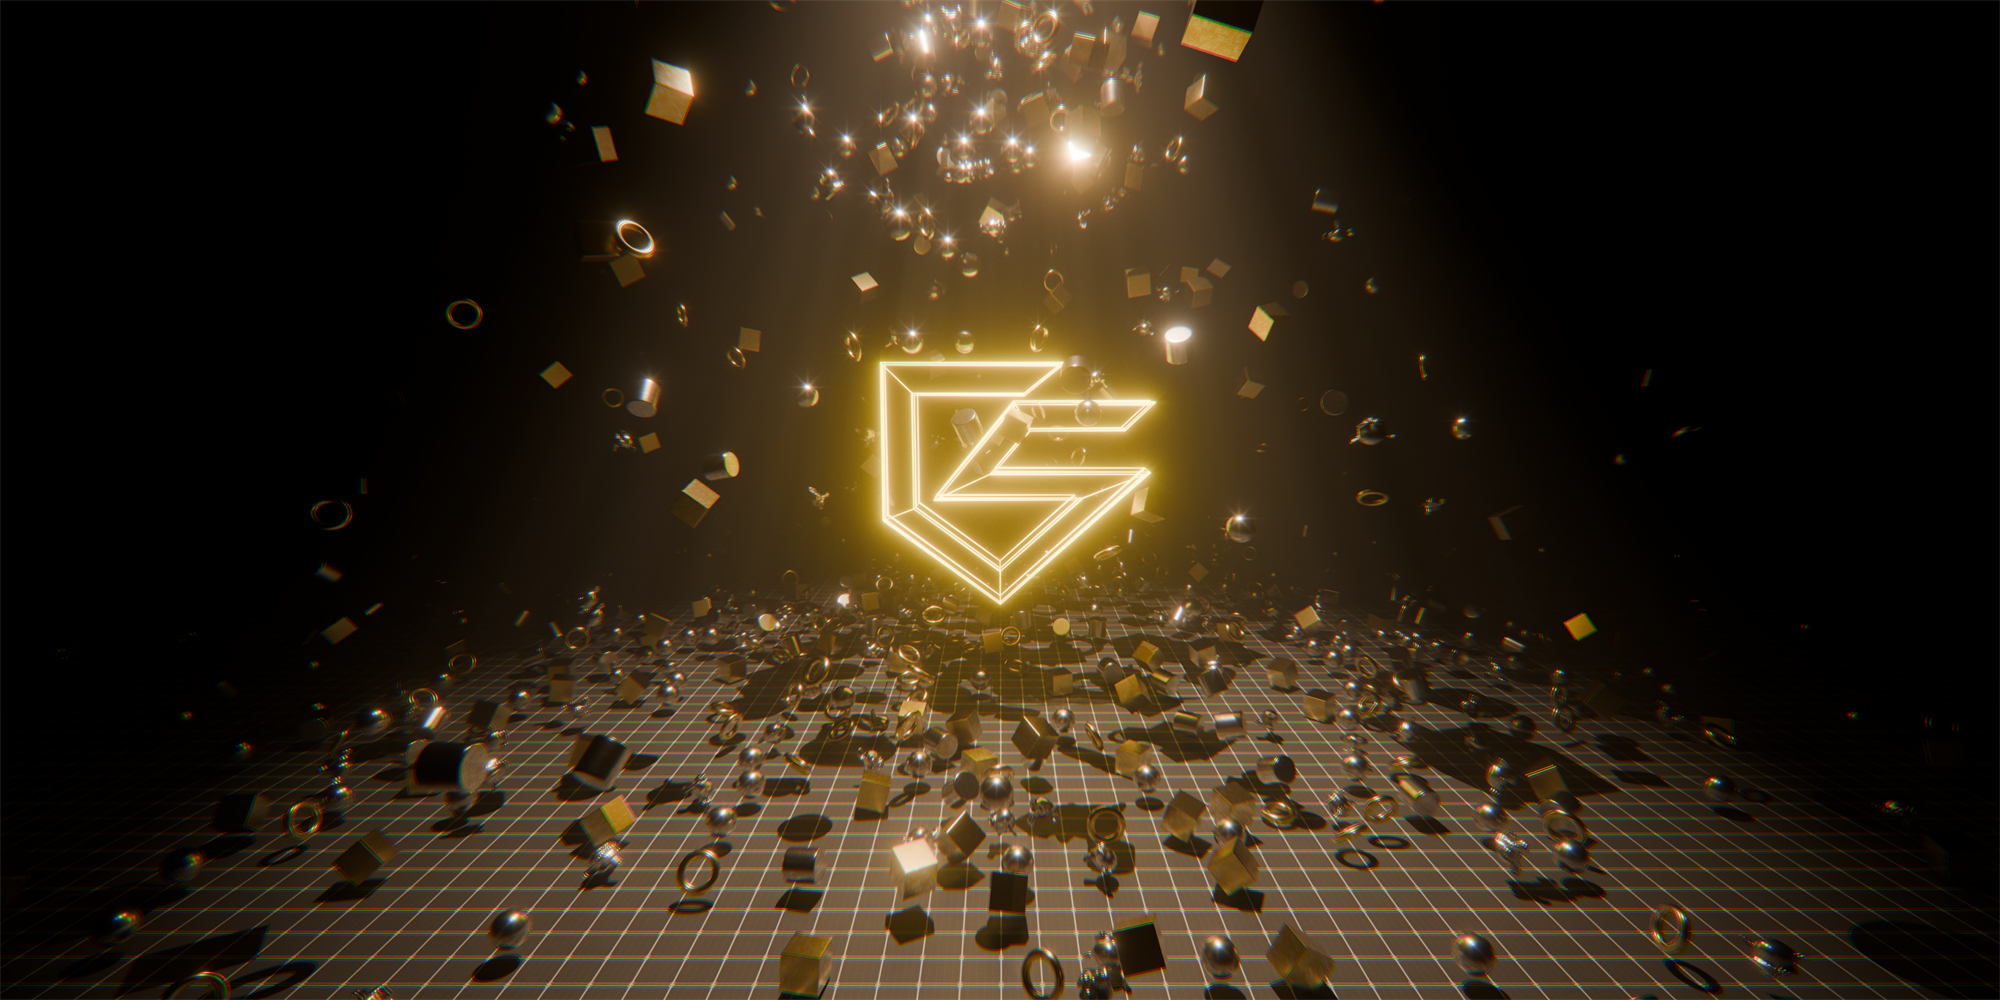
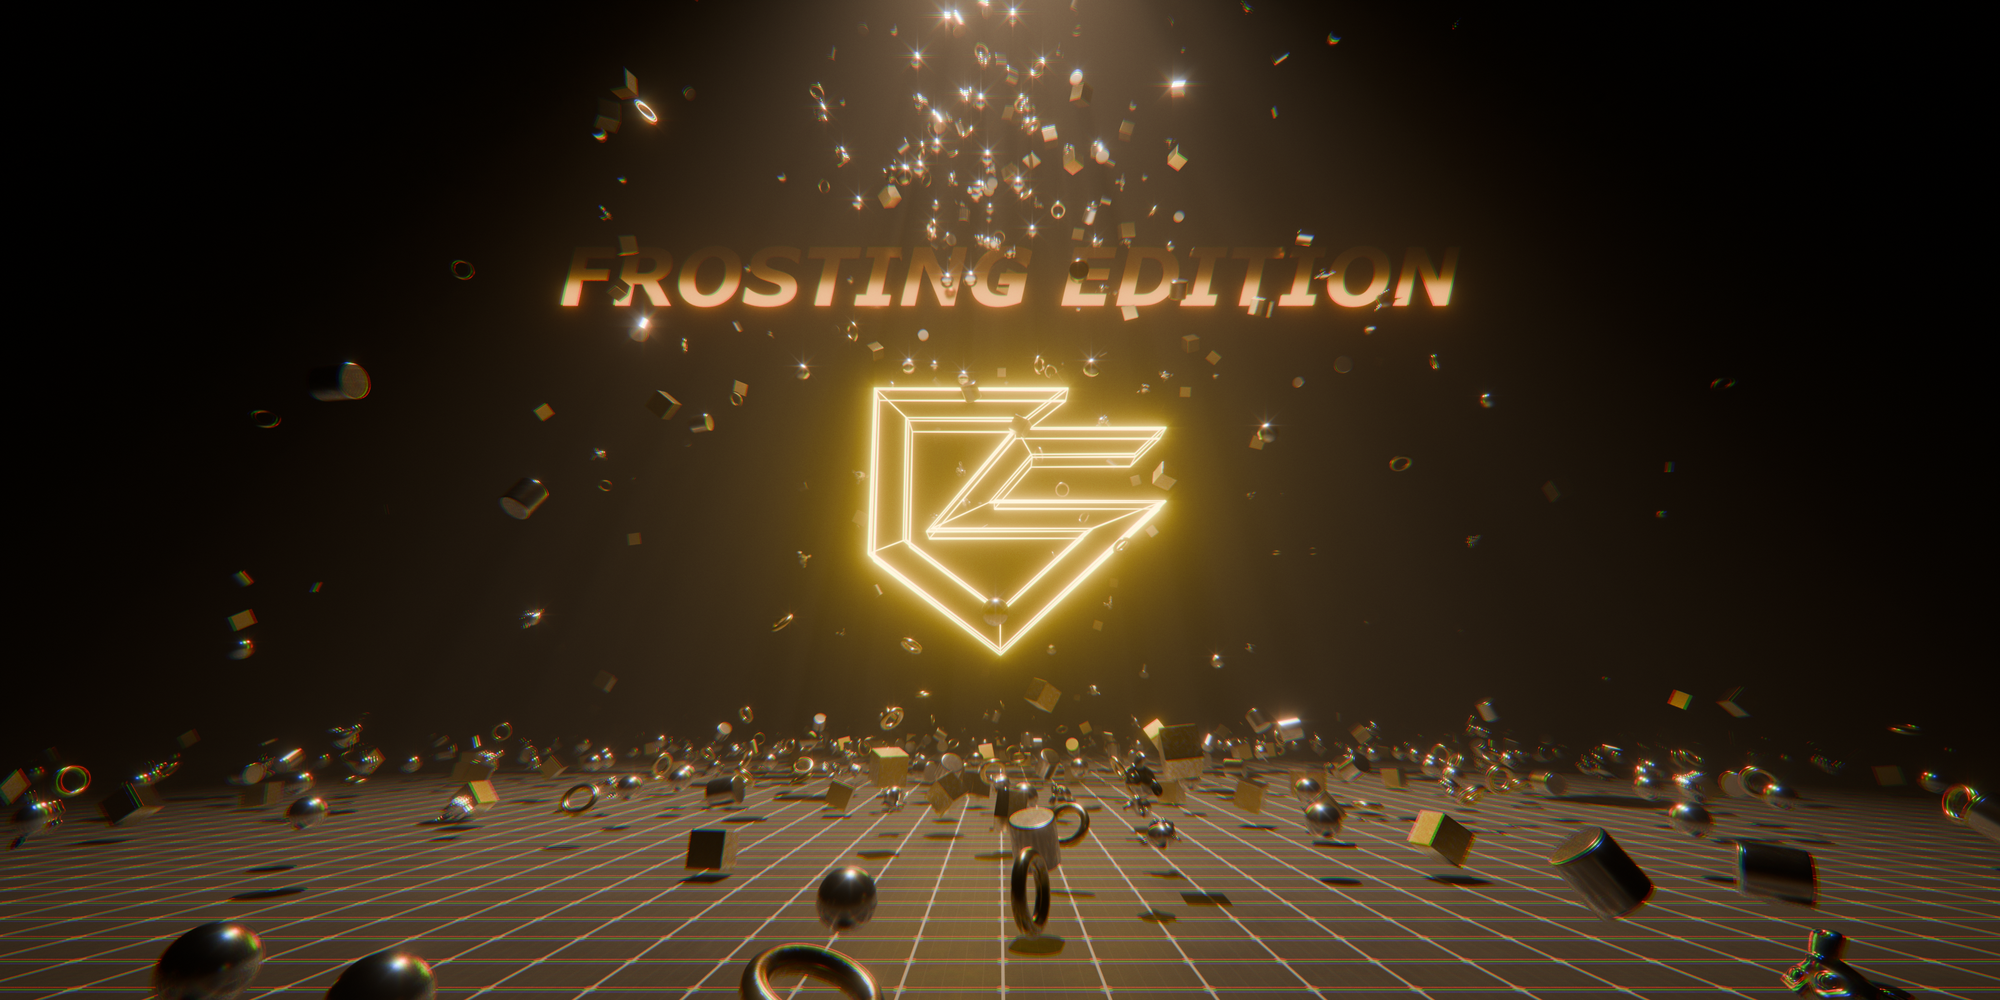
Link Frosting card to landing page and update cover
- index.html: Frosting card now AVAILABLE with tagline, description,
  tags and a primary button linking to the Frosting landing page.
- addons.html: catalog card linked to the same landing, badge switched
  from "In development" to "Available".
- assets/frosting.png: replaced with new 2000x1000 cover.

diff --git a/index.html b/index.html
@@ -1426,14 +1426,27 @@
         </div>
       </div>
 
-      <!-- Frosting (in development) -->
-      <div class="addon-card coming reveal">
+      <!-- Frosting -->
+      <div class="addon-card reveal">
         <div class="addon-info">
-          <div class="addon-status coming">
+          <div class="addon-status">
             <span class="dot"></span>
-            <span>IN DEVELOPMENT</span>
+            <span>AVAILABLE · v1.0</span>
           </div>
           <h3 class="addon-name">Frosting</h3>
+          <p class="addon-tagline">Physics-based scatter, inside Blender.</p>
+          <p class="addon-desc">
+            Distributes objects through rigid body simulation. Four scatter modes (Emitter, Curve, Brush, Volume), force fields, bake to keyframes — up to 20k instances.
+          </p>
+          <div class="addon-tags">
+            <span class="addon-tag">Physics · Scatter</span>
+            <span class="addon-tag">Blender 4.0+</span>
+            <span class="addon-tag">Cross-platform</span>
+            <span class="addon-tag">Multi-mode</span>
+          </div>
+          <div class="addon-actions">
+            <a href="https://gokusayayin641-ai.github.io/frosting-page/" target="_blank" rel="noopener" class="addon-link primary">Discover Frosting →</a>
+          </div>
         </div>
         <div class="addon-visual addon-visual--image">
           <img src="assets/frosting.png" alt="Frosting" class="addon-visual-img">

diff --git a/addons.html b/addons.html
@@ -445,18 +445,19 @@
         </div>
       </a>
 
-      <!-- Frosting (no page yet) -->
-      <div class="yt-card disabled reveal">
+      <!-- Frosting -->
+      <a href="https://gokusayayin641-ai.github.io/frosting-page/" target="_blank" rel="noopener" class="yt-card reveal">
         <div class="yt-thumb">
-          <span class="yt-badge coming"><span class="dot"></span>In development</span>
+          <span class="yt-badge"><span class="dot"></span>Available</span>
           <img src="assets/frosting.png" alt="Frosting cover">
           <div class="yt-thumb-overlay"></div>
         </div>
         <div class="yt-meta">
           <div class="yt-title">Frosting</div>
-          <div class="yt-sub">Coming soon</div>
+          <div class="yt-sub">Physics-based object scatter for Blender — rigid body simulation</div>
+          <div class="yt-link-tag">LANDING <span class="arrow">→</span></div>
         </div>
-      </div>
+      </a>
 
     </div>
   </div>
